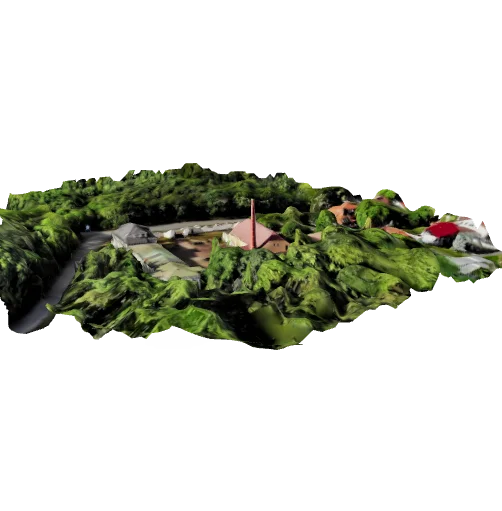
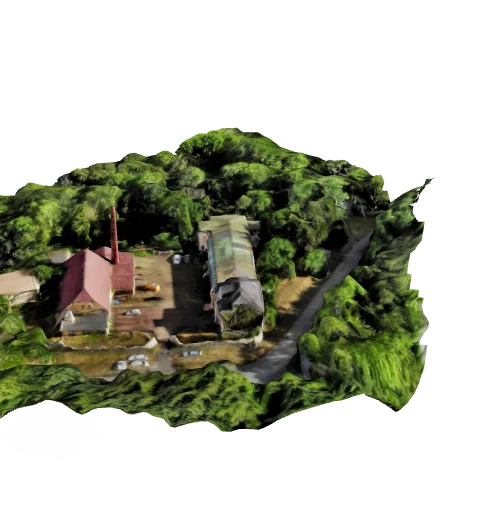
hotspots update

diff --git a/index.html b/index.html
@@ -9,15 +9,15 @@
   </head>
   <body>
     <!-- <model-viewer> HTML element -->
-    <model-viewer src="model.glb" ar ar-modes="webxr scene-viewer quick-look" camera-controls poster="poster.webp" shadow-intensity="1">
+    <model-viewer src="model.glb" ar ar-modes="webxr scene-viewer quick-look" camera-controls poster="poster.webp" shadow-intensity="1" min-camera-orbit="auto 0deg auto" max-camera-orbit="auto 60deg auto" camera-orbit="-161.8deg 60deg 406.7m" field-of-view="21.8deg">
       <button class="Hotspot" slot="hotspot-1" data-position="27.61292573508068m 0.8223583113968118m -90.37217010491344m" data-normal="0.4056649680425258m 0.6072866643135129m -0.6831096844943889m" data-visibility-attribute="visible">
-          <div class="HotspotAnnotation">vjezd</div>
+          <div class="HotspotAnnotation">🚙</div>
       </button><button class="Hotspot" slot="hotspot-2" data-position="19.128433639044886m 8.52931866943888m -70.0994605275003m" data-normal="0.27533436211433165m 0.9430392489212319m -0.18672965493775434m" data-visibility-attribute="visible">
-          <div class="HotspotAnnotation">A</div>
+          <div class="HotspotAnnotation">🅰</div>
       </button><button class="Hotspot" slot="hotspot-3" data-position="27.97996776483552m 5.578751678593534m -41.5905577500003m" data-normal="0.22923907850707295m 0.9670711115154033m -0.11055727093950173m" data-visibility-attribute="visible">
-          <div class="HotspotAnnotation">B</div>
-      </button><button class="Hotspot" slot="hotspot-4" data-position="57.584399097084116m 19.112622164117624m -57.1788927221815m" data-normal="0.09694985463895271m 0.056138505617861954m -0.9937047820517316m" data-visibility-attribute="visible">
-          <div class="HotspotAnnotation">komín</div>
+          <div class="HotspotAnnotation">🅱</div>
+      </button><button class="Hotspot" slot="hotspot-5" data-position="57.61377916892309m 21.742282025205895m -56.78984891567343m" data-normal="-0.11173216731626592m 0.9214589962146065m -0.37206080293680466m" data-visibility-attribute="visible">
+          <div class="HotspotAnnotation">🏭 komín</div>
       </button>
       <div class="progress-bar hide" slot="progress-bar">
           <div class="update-bar"></div>
